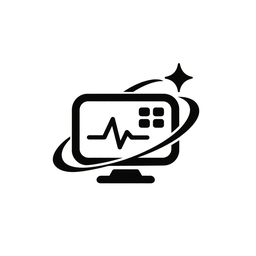
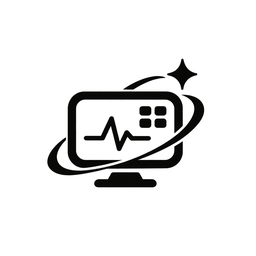
v1.0.7: 紧凑窗口高度自适应、顶栏改用真实图标、图形占比 90%

Changed region(s): [[0.1875, 0.2188, 0.8125, 0.75]]

diff --git a/build/make-icon.py b/build/make-icon.py
@@ -12,7 +12,7 @@ OUT_PREVIEW = r"C:\Users\MOOM\AppData\Local\Temp\icon_preview.png"
 
 BASE = 1024          # 主画布
 RADIUS_RATIO = 0.225 # 圆角半径占画布比例（苹果式圆角）
-GLYPH_RATIO = 0.84   # 图形占画布比例
+GLYPH_RATIO = 0.90   # 图形占画布比例
 
 # 1) 读入黑色图形，去掉四周透明留白
 glyph = Image.open(SRC).convert("RGBA")
